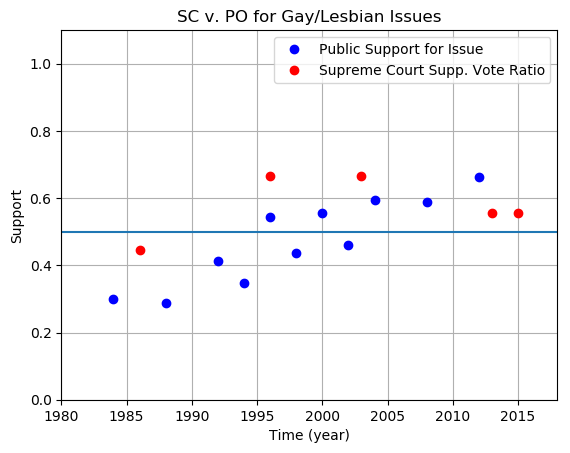
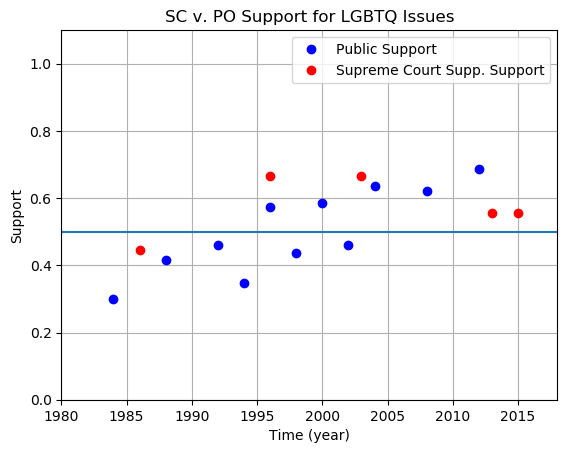
changes to plotting

diff --git a/ex_plots.py b/ex_plots.py
@@ -9,7 +9,7 @@ import matplotlib.pyplot as plt
 ################################################################################
 
 #supreme court decisions
-plt.plot(sc_support.keys(),sc_support.values(),'ro',label='Supreme Court Supp Support')
+plt.plot(sc_support.keys(),sc_support.values(),'ro',label='Supreme Court Support on ' + ISSUE_NAME)
 
 plt.axhline(y=.5)
 
@@ -29,7 +29,7 @@ plt.gcf().clear()
 #PUBLIC SUPPORT
 ################################################################################
 
-#average public support for gay issues
+#average, normalized, polarized public support for gay issues
 plt.plot(all_po_avg.keys(),all_po_avg.values(),'mo',label='Public Support on ' + ISSUE_NAME)
 
 plt.axhline(y=.5)
@@ -43,7 +43,7 @@ plt.grid(True)
 min_yr=min(list(sc_support.keys())+list(all_po_avg.keys()))
 plt.axis([min_yr-4, CURRENT_YEAR, 0.0, 1.1])
 
-plt.savefig('./plots/avg_po_support.png', bbox_inches='tight')
+plt.savefig('./plots/po_support.png', bbox_inches='tight')
 #plt.show()
 plt.gcf().clear()
 
@@ -60,13 +60,13 @@ plt.axhline(y=.5)
 plt.legend()
 plt.xlabel('Time (year)')
 plt.ylabel('Support')
-plt.title('Public Support for LGBTQ Issues')
+plt.title('Public Support for ' + ISSUE_NAME)
 plt.grid(True)
 
 min_yr=min(list(sc_support.keys())+list(gay_temp_yr_avg.keys())+list(gay_mil_yr_avg.keys())+list(gay_adopt_yr_avg.keys()))
 plt.axis([min_yr-4, CURRENT_YEAR, 0.0, 1.1])
 
-plt.savefig('./plots/po_support.png', bbox_inches='tight')
+plt.savefig('./plots/po_support_3.png', bbox_inches='tight')
 #plt.show()
 plt.gcf().clear()
 
@@ -86,12 +86,12 @@ plt.axhline(y=.5)
 plt.legend()
 plt.xlabel('Time (year)')
 plt.ylabel('Support')
-plt.title('SC v. PO for ' + ISSUE_NAME)
+plt.title('SC v. PO for ' + ISSUE_NAME + ' (Ex.)')
 plt.grid(True)
 
 min_yr=min(list(sc_support.keys())+list(gay_temp_yr_avg.keys())+list(gay_mil_yr_avg.keys())+list(gay_adopt_yr_avg.keys()))
 plt.axis([min_yr-4, CURRENT_YEAR, 0.0, 1.1])
 
-plt.savefig('./plots/sc_v_po.png', bbox_inches='tight')
+plt.savefig('./plots/sc_v_po_3.png', bbox_inches='tight')
 #plt.show()
 plt.gcf().clear()

diff --git a/sc_po_anal.py b/sc_po_anal.py
@@ -211,7 +211,5 @@ for q_id in po_rel_ques:
         else:
             all_po_avg[key] = [value]
 
-print(all_po_avg)
-
 #reduce by averaging each list of col averages
 all_po_avg = {key:np.average(all_po_avg[key]) for key in all_po_avg.keys()}
